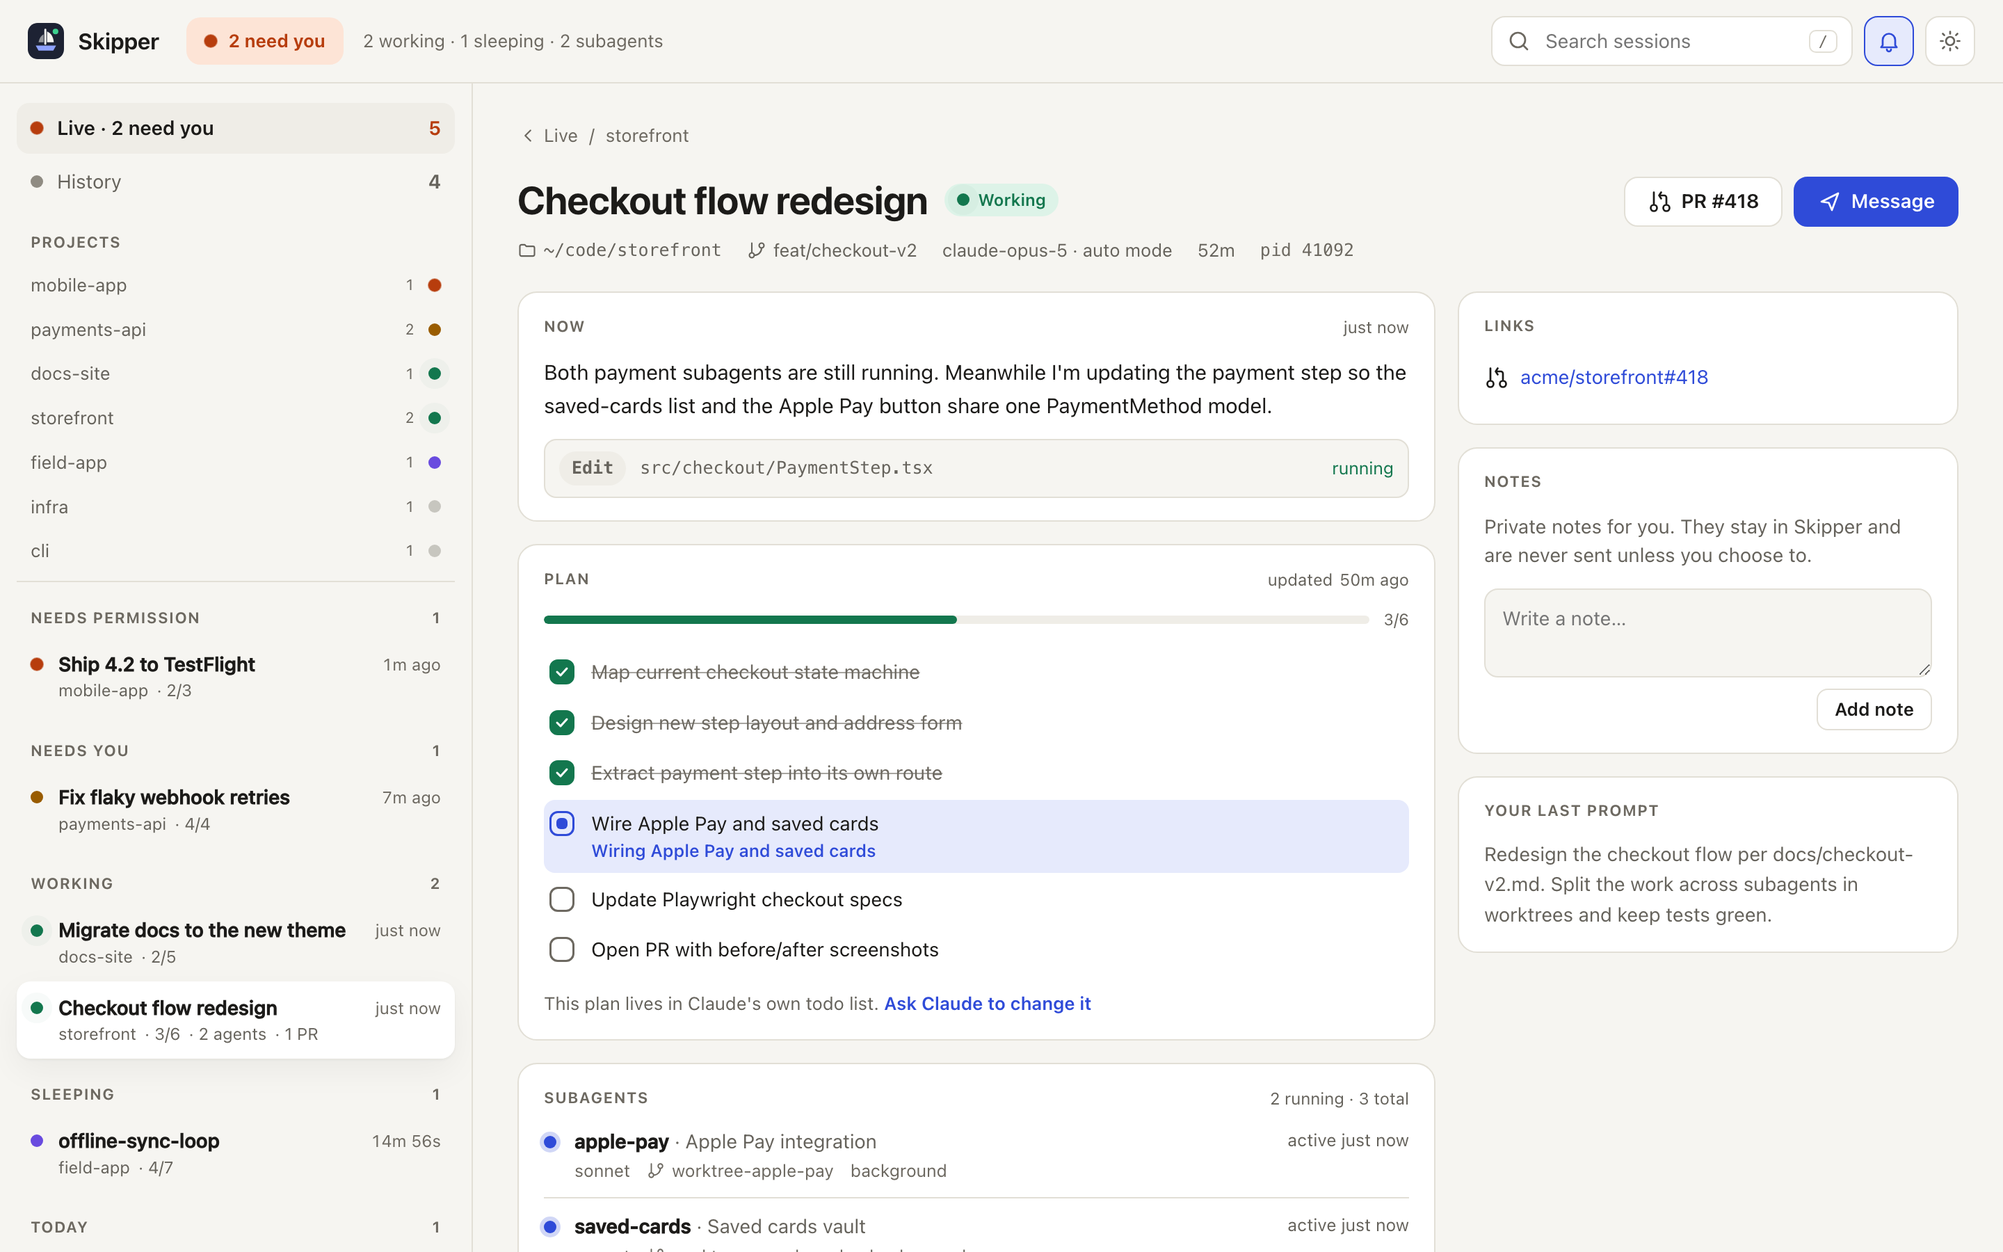
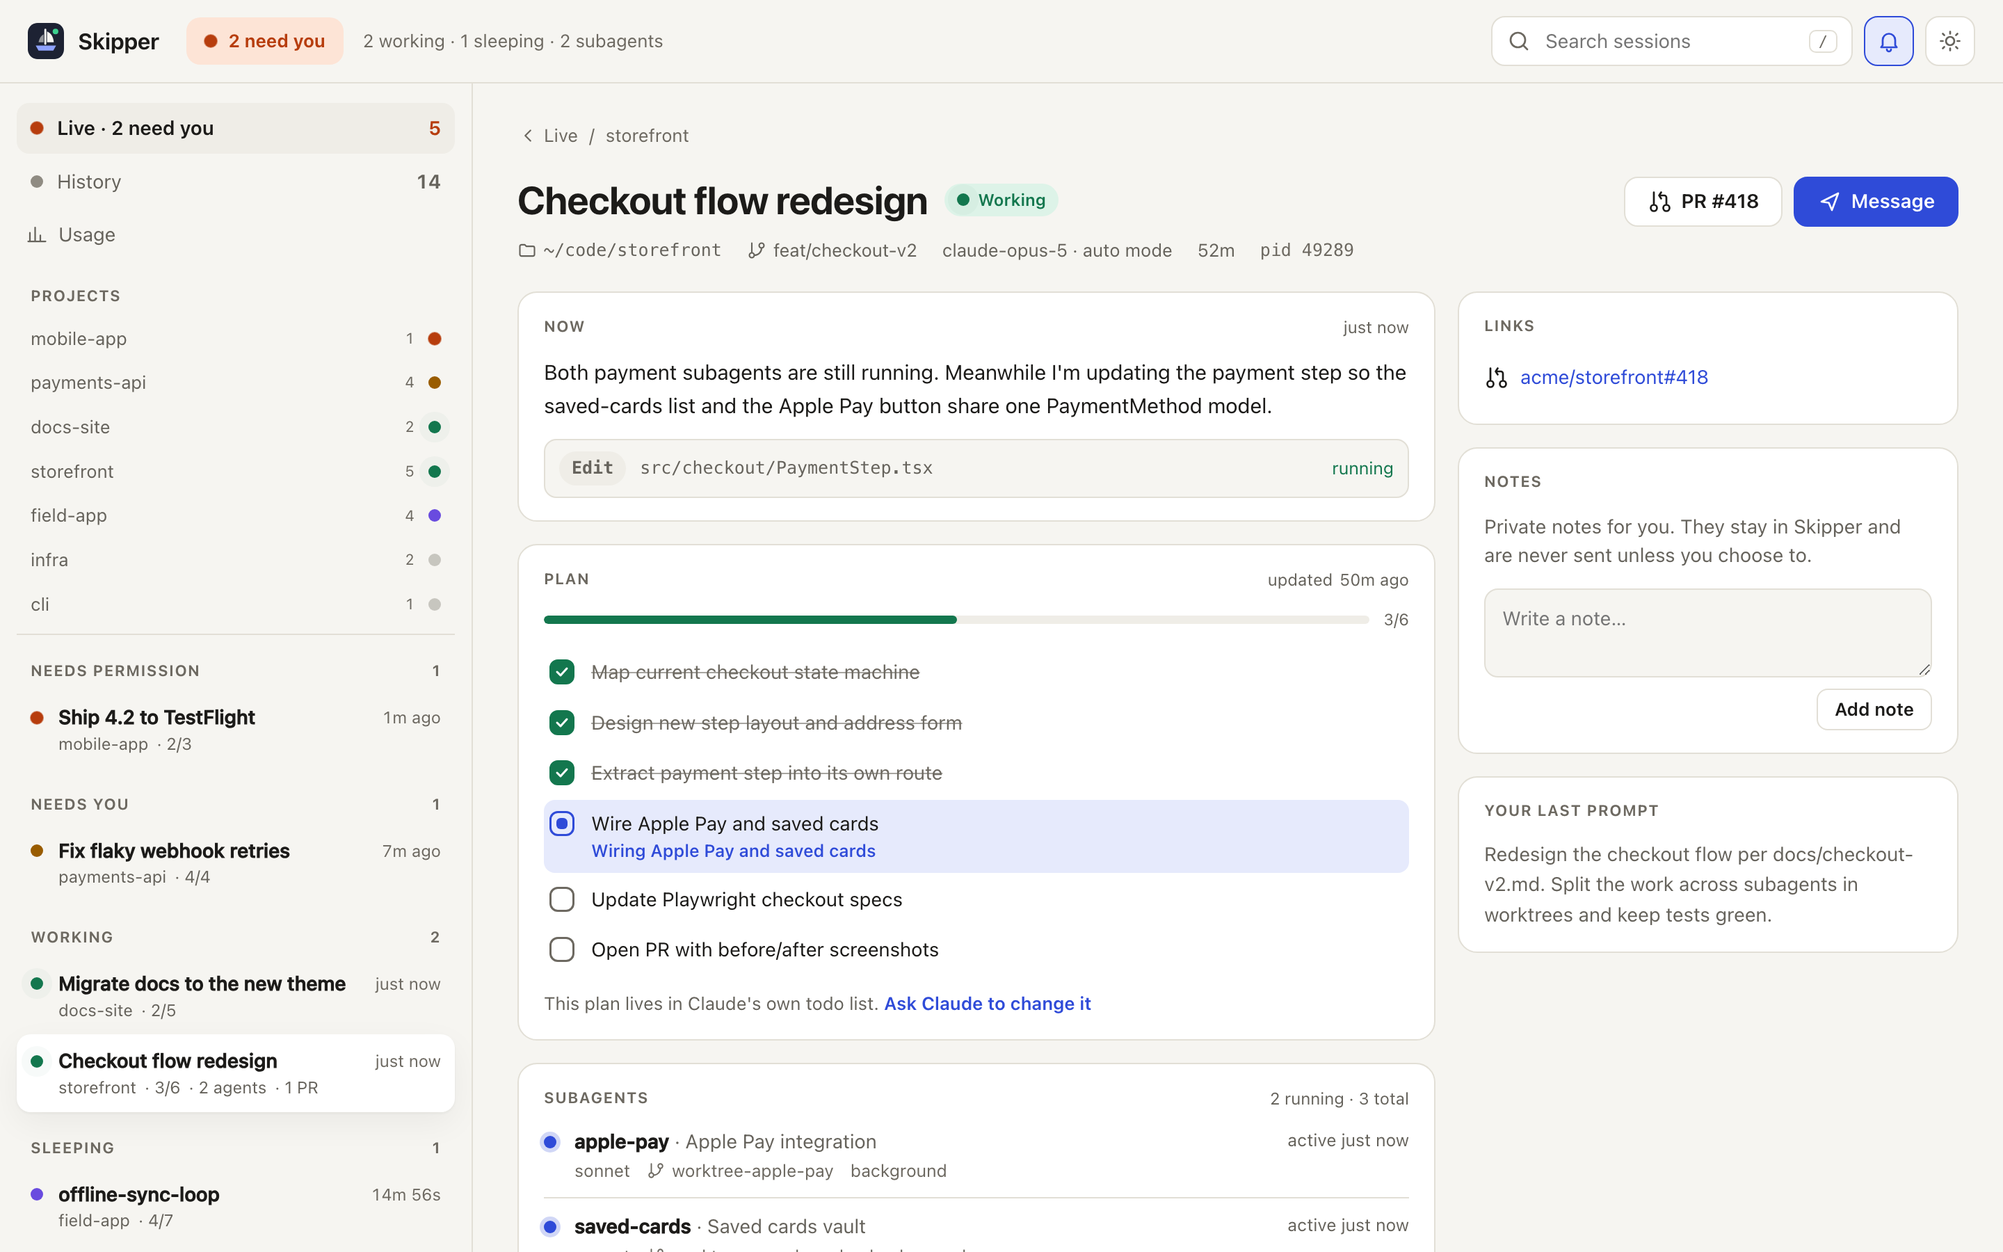
Add the Usage page
Tiles for output and input tokens, subagent share and recorded cost, a
bar chart of output tokens per day with a hover readout and an accessible
table, and ranked breakdowns by project and model. Ranges: today, 7, 14
and 30 days. Linked from the sidebar.

diff --git a/public/app.js b/public/app.js
@@ -11,6 +11,8 @@ const state = {
   filter: 'live',
   project: null,
   activity: [],
+  usage: null,
+  usageDays: 14,
   activityFilter: 'all',
   activitySeen: 0,
   query: '',
@@ -68,6 +70,7 @@ const ICONS = {
   edit: 'M4 20h4L19 9l-4-4L4 16ZM13.5 6.5l4 4',
   trash: 'M4 7h16M10 11v6M14 11v6M6 7l1 13h10l1-13M9 7V4h6v3',
   send: 'M4 12 20 4l-6 16-3-7Z',
+  chart: 'M4 20V10M10 20V4M16 20v-7M22 20H2',
   close: 'M6 6l12 12M18 6 6 18',
   copy: 'M10 8h8a2 2 0 0 1 2 2v8a2 2 0 0 1-2 2h-8a2 2 0 0 1-2-2v-8a2 2 0 0 1 2-2ZM16 8V6a2 2 0 0 0-2-2H6a2 2 0 0 0-2 2v8a2 2 0 0 0 2 2h2',
   bell: 'M6 16V11a6 6 0 1 1 12 0v5l1.5 2h-15ZM10 20a2 2 0 0 0 4 0',
@@ -138,6 +141,7 @@ async function load() {
   notifyChanges(data.sessions);
   state.sessions = data.sessions;
   state.activity = (await getJson('/api/activity?limit=150').catch(() => null))?.items ?? state.activity;
+  if (route().name === 'usage') state.usage = await getJson(`/api/usage?days=${state.usageDays}`).catch(() => state.usage);
   const id = route().id;
   if (id) {
     const res = await fetch(`/api/sessions/${encodeURIComponent(id)}`, { cache: 'no-store' });
@@ -318,6 +322,7 @@ function route() {
   if (match) return { name: 'session', id: match[1] };
   if (hash === '#/sessions') return { name: 'list' };
   if (hash === '#/activity') return { name: 'activity' };
+  if (hash === '#/usage') return { name: 'usage' };
   return { name: 'overview' };
 }
 
@@ -367,6 +372,7 @@ function renderRail() {
   $('#rail-nav').replaceChildren(
     tab('live', needs ? `Live · ${needs} need${needs === 1 ? 's' : ''} you` : 'Live', live.length, needs ? (live.some((s) => s.state === 'permission') ? 'permission' : 'waiting') : 'working'),
     tab('history', 'History', state.sessions.length - live.length, 'ended'),
+    h('a', { class: `rail-tab rail-link${route().name === 'usage' ? ' current' : ''}`, href: '#/usage' }, icon('chart'), h('span', {}, 'Usage')),
   );
 
   const projects = new Map();
@@ -572,6 +578,64 @@ function hooksTip() {
       h('code', {}, command),
       h('button', { class: 'icon-btn tiny', type: 'button', title: 'Copy command', 'aria-label': 'Copy command', dataset: { action: 'copy', text: command } }, icon('copy'))),
     h('button', { class: 'icon-btn tiny tip-close', type: 'button', title: 'Dismiss', 'aria-label': 'Dismiss tip', dataset: { action: 'dismiss-tip', tip: 'hooks' } }, icon('close')));
+}
+
+const USAGE_RANGES = [[1, 'Today'], [7, '7 days'], [14, '14 days'], [30, '30 days']];
+
+function renderUsage() {
+  renderPulse();
+  const u = state.usage;
+  const head = h('div', { class: 'page-head usage-head' },
+    h('div', {},
+      h('h1', {}, 'Usage'),
+      h('p', { class: 'lede' }, 'Tokens are counted from every response, including subagents. Dollar cost appears only where Claude Code recorded it.')),
+    h('div', { class: 'segmented usage-range', role: 'tablist', 'aria-label': 'Time range' },
+      USAGE_RANGES.map(([days, label]) => h('button', { type: 'button', role: 'tab', 'aria-selected': String(state.usageDays === days), dataset: { usageDays: String(days) } }, label))));
+  if (!u) return h('div', { class: 'usage' }, head, h('p', { class: 'muted' }, 'Loading usage…'));
+  if (!u.totals.responses) return h('div', { class: 'usage' }, head, h('p', { class: 'muted' }, 'No responses in this range yet.'));
+
+  const t = u.totals;
+  const change = t.previousOutput ? Math.round(((t.output - t.previousOutput) / t.previousOutput) * 100) : null;
+  const tile = (label, value, note) => h('div', { class: 'stat usage-stat' }, h('div', { class: 'label' }, label), h('div', { class: 'num' }, value), note ? h('div', { class: 'stat-note' }, note) : null);
+
+  const scale = niceScale(Math.max(...u.perDay.map((d) => d.output)));
+  const dayLabel = (key, long) => new Date(`${key}T12:00:00`).toLocaleDateString(undefined, long ? { weekday: 'short', month: 'short', day: 'numeric' } : { day: 'numeric' });
+  const every = u.perDay.length > 16 ? 5 : 1;
+  const bars = u.perDay.map((d, i) => {
+    const top = Object.entries(d.byProject).sort((a, b) => b[1] - a[1]).slice(0, 2).map(([name, v]) => `${name} ${Math.round((v / d.output) * 100)}%`).join(' · ');
+    const tip = `${dayLabel(d.day, true)}: ${formatTokens(d.output)} output tokens${top ? ` (${top})` : ''}`;
+    return h('div', { class: 'bar-col', tabindex: '0', role: 'img', 'aria-label': tip, dataset: { tip } },
+      h('i', { class: 'bar-fill', style: `height:${d.output ? Math.max(2, (d.output / scale.max) * 100) : 0}%` }),
+      h('span', { class: 'bar-label' }, i % every === 0 || i === u.perDay.length - 1 ? dayLabel(d.day) : ''));
+  });
+  const ranked = (title, rows) => h('section', { class: 'panel' },
+    h('div', { class: 'panel-head' }, h('h2', {}, title), h('span', { class: 'meta' }, 'output tokens')),
+    h('div', { class: 'ranked' }, rows.slice(0, 8).map((r) =>
+      h('div', { class: 'ranked-row' },
+        h('span', { class: 'ranked-name' }, r.name),
+        h('span', { class: 'ranked-track' }, h('i', { style: `width:${(r.output / rows[0].output) * 100}%` })),
+        h('span', { class: 'ranked-value mono' }, formatTokens(r.output))))));
+
+  return h('div', { class: 'usage' },
+    head,
+    h('div', { class: 'stats usage-stats' },
+      tile('Output tokens', formatTokens(t.output), change == null ? null : `${change >= 0 ? '+' : ''}${change}% vs previous ${u.days === 1 ? 'day' : `${u.days} days`}`),
+      tile('Input tokens', formatTokens(t.input), t.input ? `${Math.round((t.cacheRead / t.input) * 100)}% served from cache` : null),
+      tile('Subagents', t.output ? `${Math.round((t.subagentOutput / t.output) * 100)}%` : '0%', 'of output tokens'),
+      tile('Recorded cost', t.costSessions ? `$${t.recordedCost.toFixed(2)}` : '—', t.costSessions ? `from ${t.costSessions} session${t.costSessions === 1 ? '' : 's'}` : 'none recorded in this range')),
+    h('section', { class: 'panel chart-panel' },
+      h('div', { class: 'panel-head' }, h('h2', {}, 'Output tokens per day'), h('span', { class: 'meta', id: 'chart-readout', 'aria-live': 'polite' }, 'Hover a bar for details')),
+      h('div', { class: 'chart' },
+        h('div', { class: 'chart-axis' }, [...scale.ticks].reverse().map((v) => h('span', {}, formatTokens(v)))),
+        h('div', { class: 'chart-plot' },
+          h('div', { class: 'chart-grid' }, h('i', {}), h('i', {}), h('i', {})),
+          h('div', { class: 'chart-bars', style: `grid-template-columns:repeat(${u.perDay.length}, minmax(0, 1fr))` }, bars))),
+      h('table', { class: 'sr-only' },
+        h('caption', {}, 'Output tokens per day'),
+        h('tbody', {}, u.perDay.map((d) => h('tr', {}, h('th', {}, dayLabel(d.day, true)), h('td', {}, d.output)))))),
+    h('div', { class: 'usage-grid' }, ranked('By project', u.byProject), ranked('By model', u.byModel)),
+    h('p', { class: 'hint usage-note' }, 'Skipper does not estimate prices. Token counts are exact; costs come only from Claude Code’s own records.'),
+  );
 }
 
 function renderOverview() {
@@ -910,7 +974,7 @@ function render() {
   }
   state.renderPending = false;
   const keepScroll = main.dataset.view === (r.id || r.name) ? main.scrollTop : 0;
-  main.replaceChildren(r.name === 'session' ? renderDetail(state.detail) : r.name === 'activity' ? renderActivityPage() : renderOverview());
+  main.replaceChildren(r.name === 'session' ? renderDetail(state.detail) : r.name === 'activity' ? renderActivityPage() : r.name === 'usage' ? renderUsage() : renderOverview());
   if (r.name === 'list') renderPulse();
   main.dataset.view = r.id || r.name;
   main.scrollTop = keepScroll;
@@ -1095,6 +1159,13 @@ function focusComposer() {
 function wireActions() {
   const main = $('#main');
   main.addEventListener('click', (event) => {
+    const range = event.target.closest('[data-usage-days]');
+    if (range) {
+      state.usageDays = Number(range.dataset.usageDays);
+      store.set('skipper.usageDays', String(state.usageDays));
+      reload();
+      return;
+    }
     const chip = event.target.closest('[data-activity-filter]');
     if (chip) {
       state.activityFilter = chip.dataset.activityFilter;
@@ -1184,6 +1255,13 @@ function init() {
   });
   matchMedia('(prefers-color-scheme: dark)').addEventListener('change', () => applyTheme(store.get('skipper.theme')));
   wireActions();
+  const readout = (event) => {
+    const bar = event.target.closest?.('.bar-col');
+    const out = document.getElementById('chart-readout');
+    if (bar && out) out.textContent = bar.dataset.tip;
+  };
+  $('#main').addEventListener('mouseover', readout);
+  $('#main').addEventListener('focusin', readout);
   $('#tabbar').addEventListener('click', (event) => {
     const tab = event.target.closest('[data-tab]');
     if (!tab || tab.dataset.tab === 'needs' || tab.dataset.tab === 'activity') return;
@@ -1234,6 +1312,7 @@ function init() {
   }, { once: true });
 
   state.filter = store.get('skipper.filter') === 'history' ? 'history' : 'live';
+  state.usageDays = [1, 7, 14, 30].includes(Number(store.get('skipper.usageDays'))) ? Number(store.get('skipper.usageDays')) : 14;
   state.activitySeen = Number(store.get('skipper.activitySeen')) || 0;
   if (!state.activitySeen) {
     // First visit: only the last hour counts as new, not the whole week.

diff --git a/public/app.css b/public/app.css
@@ -804,3 +804,45 @@ button.box:hover { border-color: var(--accent); }
 .shortcuts dt { display: flex; gap: 4px; }
 .shortcuts dd { margin: 0; color: var(--muted); }
 .shortcuts kbd { color: var(--text); background: var(--surface-2); }
+
+/* ---------- v3: usage ---------- */
+.sr-only { position: absolute; width: 1px; height: 1px; padding: 0; margin: -1px; overflow: hidden; clip: rect(0 0 0 0); white-space: nowrap; border: 0; }
+.rail-link { text-decoration: none; }
+.rail-link:hover { text-decoration: none; }
+.rail-link svg { width: 15px; height: 15px; margin: 0 -2px 0 -3px; }
+.rail-link.current { background: var(--surface-2); color: var(--text); font-weight: 600; }
+.usage { display: flex; flex-direction: column; gap: 18px; max-width: 1200px; }
+.usage-head { margin-bottom: 4px; align-items: flex-end; }
+.usage-range { display: flex; margin: 0; }
+.usage-range button { padding: 6px 12px; }
+.usage-stats { margin-bottom: 0; }
+.usage-stat .label { margin: 0 0 4px; }
+.usage-stat .num { font-size: 28px; }
+.stat-note { margin-top: 4px; color: var(--faint); font-size: 12.5px; }
+.chart { display: grid; grid-template-columns: 48px minmax(0, 1fr); gap: 10px; }
+.chart-axis { display: flex; flex-direction: column; justify-content: space-between; height: 200px; color: var(--faint); font-size: 11px; text-align: right; font-variant-numeric: tabular-nums; }
+.chart-plot { position: relative; }
+.chart-grid { position: absolute; left: 0; right: 0; top: 0; height: 200px; display: flex; flex-direction: column; justify-content: space-between; pointer-events: none; }
+.chart-grid i { border-top: 1px solid var(--border); }
+.chart-bars { position: relative; display: grid; gap: 4px; align-items: end; }
+.bar-col { display: flex; flex-direction: column; align-items: center; gap: 8px; height: 224px; justify-content: flex-end; border-radius: 6px; outline-offset: 2px; cursor: default; }
+.bar-fill { display: block; width: 100%; max-width: 34px; border-radius: 4px 4px 0 0; background: var(--accent); max-height: 200px; }
+.bar-col { --bar-h: 200px; }
+.bar-col > .bar-fill { flex: none; }
+.bar-col:hover .bar-fill, .bar-col:focus-visible .bar-fill { background: color-mix(in srgb, var(--accent) 70%, var(--text)); }
+.bar-label { height: 16px; color: var(--faint); font-size: 11px; font-variant-numeric: tabular-nums; }
+.usage-grid { display: grid; grid-template-columns: repeat(2, minmax(0, 1fr)); gap: 16px; }
+.ranked { display: flex; flex-direction: column; }
+.ranked-row { display: grid; grid-template-columns: minmax(80px, 140px) minmax(0, 1fr) 64px; gap: 12px; align-items: center; padding: 7px 0; }
+.ranked-name { white-space: nowrap; overflow: hidden; text-overflow: ellipsis; }
+.ranked-track { height: 8px; border-radius: 0 4px 4px 0; background: var(--surface-2); overflow: hidden; }
+.ranked-track i { display: block; height: 100%; border-radius: 0 4px 4px 0; background: var(--accent); }
+.ranked-value { text-align: right; }
+.usage-note { margin: 0; }
+@media (max-width: 900px) {
+  .usage-grid { grid-template-columns: minmax(0, 1fr); }
+  .usage-stats { grid-template-columns: repeat(2, minmax(0, 1fr)); }
+  .usage-range { width: 100%; grid-template-columns: repeat(4, minmax(0, 1fr)); display: grid; }
+  .chart { grid-template-columns: 38px minmax(0, 1fr); }
+  .chart-bars { gap: 2px; }
+}

diff --git a/test/frontend.test.js b/test/frontend.test.js
@@ -14,7 +14,7 @@ test('app.js parses', () => {
 test('every locally named function that is called is defined', () => {
   const defined = new Set([...source.matchAll(/\bfunction\s+([A-Za-z_$][\w$]*)\s*\(/g)].map((m) => m[1]));
   for (const m of source.matchAll(/\bconst\s+([A-Za-z_$][\w$]*)\s*=\s*(?:\([^)]*\)|[A-Za-z_$][\w$]*)\s*=>/g)) defined.add(m[1]);
-  const ours = /^(?:(?:render|queue|session|alert|toggle|sync|apply|focus|wire|run|notify|attention|composer|notes|plan|agents|workflows|loop|links|team)(?:[A-Z]\w*)?|panel|segments|metaItem|chime|confirmButton|load|reload|connect|route|matches|visibleSessions|progress|detailGrid|toast|api|ago|countdown|duration|plain|safeHref|toolName|tick|icon|h|setOffline|onHookAlert|hooksTip|formatAgo|formatCountdown|dayBucket|dayBucketAt|groupActivity|splitAsk|resumeCommand)$/;
+  const ours = /^(?:(?:render|queue|session|alert|toggle|sync|apply|focus|wire|run|notify|attention|composer|notes|plan|agents|workflows|loop|links|team)(?:[A-Z]\w*)?|panel|segments|metaItem|chime|confirmButton|load|reload|connect|route|matches|visibleSessions|progress|detailGrid|toast|api|ago|countdown|duration|plain|safeHref|toolName|tick|icon|h|setOffline|onHookAlert|hooksTip|formatAgo|formatCountdown|dayBucket|dayBucketAt|groupActivity|splitAsk|resumeCommand|formatTokens|niceScale)$/;
   const missing = new Set();
   for (const m of source.matchAll(/(?<![.\w$])([A-Za-z_$][\w$]*)\s*\(/g)) {
     const name = m[1];
@@ -32,7 +32,7 @@ test('index.html references only elements app.js expects', () => {
 
 const helpers = (() => {
   const context = {};
-  vm.runInNewContext(`${logic}\n;globalThis.out = { resumeCommand, formatAgo, formatCountdown, duration, safeHref, toolName, plain, splitAsk, dayBucketAt, groupActivity };`, context);
+  vm.runInNewContext(`${logic}\n;globalThis.out = { formatTokens, niceScale, resumeCommand, formatAgo, formatCountdown, duration, safeHref, toolName, plain, splitAsk, dayBucketAt, groupActivity };`, context);
   return context.out;
 })();
 
@@ -78,4 +78,20 @@ test('resume command cds into the project and quotes unusual paths', () => {
   assert.equal(helpers.resumeCommand({ id, cwd: "/Users/me/my app's" }), `cd '/Users/me/my app'\\''s' && claude --resume ${id}`);
   assert.equal(helpers.resumeCommand({ id, cwd: null }), `claude --resume ${id}`);
   assert.equal(helpers.resumeCommand(null), null);
+});
+
+test('token counts are formatted compactly', () => {
+  assert.equal(helpers.formatTokens(950), '950');
+  assert.equal(helpers.formatTokens(1234), '1.23k');
+  assert.equal(helpers.formatTokens(740000), '740k');
+  assert.equal(helpers.formatTokens(1_840_000), '1.84M');
+  assert.equal(helpers.formatTokens(35_400_000), '35.4M');
+  assert.equal(helpers.formatTokens(1_708_483_163), '1.71B');
+  assert.equal(helpers.formatTokens(2_000_000), '2M');
+});
+
+test('chart scale rounds up to a readable maximum', () => {
+  assert.deepEqual(JSON.parse(JSON.stringify(helpers.niceScale(740_000))), { max: 1_000_000, ticks: [0, 500_000, 1_000_000] });
+  assert.deepEqual(JSON.parse(JSON.stringify(helpers.niceScale(310))), { max: 400, ticks: [0, 200, 400] });
+  assert.equal(helpers.niceScale(0).max, 1);
 });

diff --git a/public/logic.js b/public/logic.js
@@ -89,3 +89,25 @@ function resumeCommand(session) {
   const quoted = /^[\w@%+=:,./~-]+$/.test(session.cwd) ? session.cwd : `'${session.cwd.replace(/'/g, `'\\''`)}'`;
   return `cd ${quoted} && ${resume}`;
 }
+
+// 1234 -> "1.2k", 1840000 -> "1.84M". Keeps three significant digits.
+function formatTokens(n) {
+  const v = Math.max(0, Number(n) || 0);
+  if (v < 1000) return String(Math.round(v));
+  const units = [['B', 1e9], ['M', 1e6], ['k', 1e3]];
+  for (const [unit, size] of units) {
+    if (v >= size) {
+      const x = v / size;
+      return `${x >= 100 ? Math.round(x) : x >= 10 ? x.toFixed(1).replace(/\.0$/, '') : x.toFixed(2).replace(/\.?0+$/, '')}${unit}`;
+    }
+  }
+  return String(v);
+}
+
+// A rounded axis maximum and three tick values for a bar chart.
+function niceScale(max) {
+  if (!(max > 0)) return { max: 1, ticks: [0, 0.5, 1] };
+  const exp = 10 ** Math.floor(Math.log10(max));
+  const step = [1, 2, 2.5, 5, 10].map((m) => m * exp).find((m) => m * 2 >= max) ?? 10 * exp;
+  return { max: step * 2, ticks: [0, step, step * 2] };
+}

diff --git a/README.md b/README.md
@@ -26,8 +26,14 @@ Running several Claude Code agents at once is powerful and hard to follow. One t
 - **`/loop` countdowns.** See when a self-paced loop wakes next and why it went to sleep.
 - **Workflows, PRs and artifacts.** Multi-agent workflow runs, linked pull requests and published artifacts, one click away.
 - **Activity feed.** What happened while you were away, across every session: permission prompts, finished turns, loop ticks, subagents, PRs and workflow runs, with unread markers and filters.
-- **Cost and history.** Spend, turns and lines changed for every session, searchable across all your projects.
+- **Usage and history.** Exact token counts per day, project and model, plus recorded cost, turns and lines changed for every session.
 - **Permission alerts with sound.** The moment Claude asks to run a command or edit a file, Skipper plays a chime, shows a desktop notification and moves the session to **Needs permission**.
+
+## Usage without guesswork
+
+<img src="docs/screenshots/usage-dark.png" alt="Usage page: output and input tokens, subagent share, recorded cost, output tokens per day, and breakdowns by project and model" width="100%">
+
+Exact token counts from every response, including subagents, per day, project and model. Skipper counts each response once and never estimates prices: dollar cost appears only where Claude Code recorded it.
 
 ## Steer, not just watch
 

diff --git a/CHANGELOG.md b/CHANGELOG.md
@@ -2,6 +2,7 @@
 
 ## Unreleased
 
+- Usage page: exact token counts per day, project and model (subagents included, each response counted once), with recorded cost only.
 - Every theme's text now meets WCAG AA contrast (4.5:1), checked by a test.
 
 ## 0.3.0 (2026-09-13)
